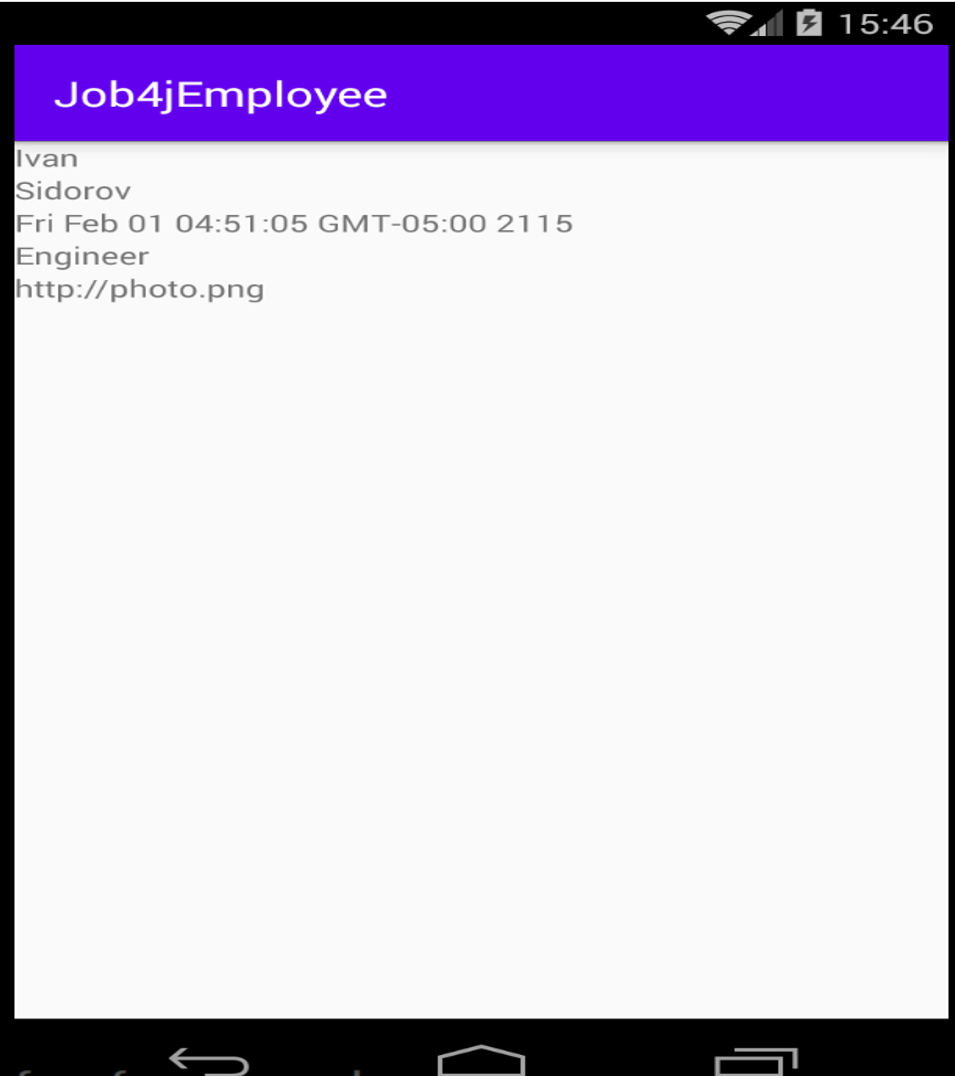
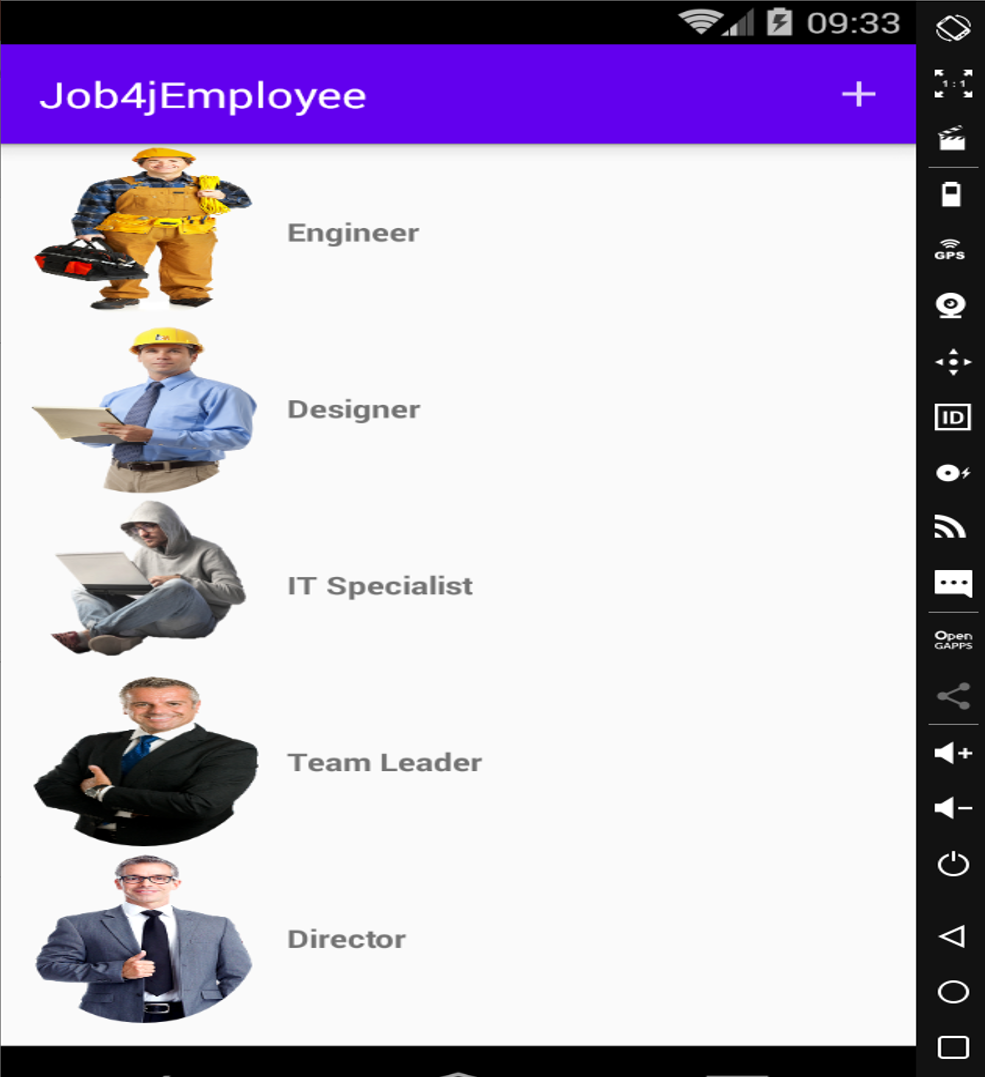
5. ToDo List[167930#231165]

diff --git a/app/src/main/java/ru/job4j/adapters/EmployeeListAdapter.java b/app/src/main/java/ru/job4j/adapters/EmployeeListAdapter.java
@@ -5,12 +5,15 @@ import android.util.Log;
 import android.view.LayoutInflater;
 import android.view.View;
 import android.view.ViewGroup;
+import android.widget.ImageView;
 import android.widget.TextView;
 
 import androidx.annotation.NonNull;
 import androidx.fragment.app.FragmentActivity;
 import androidx.fragment.app.FragmentManager;
 import androidx.recyclerview.widget.RecyclerView;
+
+import com.squareup.picasso.Picasso;
 
 import java.util.List;
 
@@ -21,10 +24,9 @@ import ru.job4j.store.Employee;
 import ru.job4j.store.Position;
 
 
-public class EmployeeListAdapter extends RecyclerView.Adapter<EmployeeListAdapter.EmployeeListHolder> implements View.OnClickListener {
+public class EmployeeListAdapter extends RecyclerView.Adapter<EmployeeListAdapter.EmployeeListHolder> {
     private final List<Employee> items;
     private FragmentActivity activity;
-    private int position = 0;
 
     public EmployeeListAdapter(List<Employee> items, FragmentActivity activity) {
         this.items = items;
@@ -60,9 +62,11 @@ public class EmployeeListAdapter extends RecyclerView.Adapter<EmployeeListAdapte
 
     @Override
     public void onBindViewHolder(@NonNull EmployeeListHolder holder, int position) {
+        ImageView imageView = holder.view.findViewById(R.id.image_of_employee);
+        Picasso.get().load(items.get(position).getPhotoURL()).fit().into(imageView);
         TextView textView = holder.view.findViewById(R.id.item_position_text);
         textView.setText(items.get(position).getName() + ", " + items.get(position).getSurname());
-        textView.setOnClickListener(this);
+        textView.setOnClickListener(view -> loadFrg(items.get(position).getName(), items.get(position).getSurname()));
     }
 
     private void loadFrg(String name, String sureName) throws RuntimeException {
@@ -72,12 +76,6 @@ public class EmployeeListAdapter extends RecyclerView.Adapter<EmployeeListAdapte
                 .addToBackStack("stack?")
                 .replace(R.id.content, fragment)
                 .commit();
-    }
-
-    @Override
-    public void onClick(View v) {
-        loadFrg(items.get(position).getName(), items.get(position).getSurname());
-        Log.d("clicked", "staaaak: ");
     }
 
     @Override

diff --git a/app/src/main/java/ru/job4j/adapters/PositionListAdapter.java b/app/src/main/java/ru/job4j/adapters/PositionListAdapter.java
@@ -5,10 +5,13 @@ import android.util.Log;
 import android.view.LayoutInflater;
 import android.view.View;
 import android.view.ViewGroup;
+import android.widget.ImageView;
 import android.widget.TextView;
 
 import androidx.annotation.NonNull;
 import androidx.recyclerview.widget.RecyclerView;
+
+import com.squareup.picasso.Picasso;
 
 import java.util.List;
 
@@ -18,17 +21,15 @@ import ru.job4j.R;
 import ru.job4j.fragments.PositionListFragment;
 import ru.job4j.store.Position;
 
-public class PositionListAdapter extends RecyclerView.Adapter<PositionListAdapter.PositionHolder> implements View.OnClickListener {
+public class PositionListAdapter extends RecyclerView.Adapter<PositionListAdapter.PositionHolder> {
 
     private final List<Position> items;
     private PositionListFragment.PositionSelect positionSelect;
-    private int position = 0;
 
     public PositionListAdapter(List<Position> items, PositionListFragment.PositionSelect positionSelect) {
         this.items = items;
         this.positionSelect = positionSelect;
     }
-
 
     public class PositionHolder extends RecyclerView.ViewHolder {
         private View view;
@@ -38,7 +39,6 @@ public class PositionListAdapter extends RecyclerView.Adapter<PositionListAdapte
             this.view = itemView;
         }
     }
-
 
     @NonNull
     @Override
@@ -51,15 +51,11 @@ public class PositionListAdapter extends RecyclerView.Adapter<PositionListAdapte
     @Override
     public void onBindViewHolder(@NonNull PositionHolder holder, int position) {
         final String item = items.get(position).getPositionName();
+        ImageView imageView = holder.view.findViewById(R.id.image_of_employee);
+        Picasso.get().load(items.get(position).getPositionImage()).fit().into(imageView);
         TextView textView = holder.view.findViewById(R.id.item_position_text);
         textView.setText(item);
-        textView.setOnClickListener(this);
-    }
-
-    @Override
-    public void onClick(View v) {
-        loadFrg(items.get(position).getCode());
-        Log.d("clicked", "staak ");
+        textView.setOnClickListener(v -> loadFrg(items.get(position).getCode()));
     }
 
     @Override

diff --git a/app/src/main/java/ru/job4j/store/EmployeeStore.java b/app/src/main/java/ru/job4j/store/EmployeeStore.java
@@ -8,11 +8,11 @@ import static ru.job4j.store.PositionStore.POSITIONS;
 
 public class EmployeeStore {
     public static final List<Employee> EMPLOYEES = Arrays.asList(
-            new Employee("Ivan", "Sidorov", POSITIONS.get(0), new Date(4578457865213L), "http://photo.png"),
-            new Employee("Petr", "Savosto", POSITIONS.get(1), new Date(4578457865213L), "http://photo2.png"),
-            new Employee("Pavel", "Petrov", POSITIONS.get(1), new Date(4578452365213L), "http://photo3.png"),
-            new Employee("Alexander", "Biba", POSITIONS.get(2), new Date(4578412865213L), "http://photo4.png"),
-            new Employee("Denis", "Mohov", POSITIONS.get(3), new Date(4578412865213L), "http://photo5.png"),
-            new Employee("Vladimir", "Putin", POSITIONS.get(4), new Date(4578412865213L), "http://photo6.png"),
-            new Employee("Dmitriy", "Dindirkin", POSITIONS.get(2), new Date(4578412865213L), "http://photo7.png"));
+            new Employee("Ivan", "Sidorov", POSITIONS.get(0), new Date(4578457865213L), "http://pngimg.com/uploads/thinking_man/thinking_man_PNG11610.png"),
+            new Employee("Petr", "Savosto", POSITIONS.get(1), new Date(4578457865213L), "http://pngimg.com/uploads/thinking_man/thinking_man_PNG11612.png"),
+            new Employee("Pavel", "Petrov", POSITIONS.get(1), new Date(4578452365213L), "http://pngimg.com/uploads/thinking_man/thinking_man_PNG11607.png"),
+            new Employee("Alexander", "Biba", POSITIONS.get(2), new Date(4578412865213L), "http://pngimg.com/uploads/thinking_man/thinking_man_PNG11586.png"),
+            new Employee("Denis", "Mohov", POSITIONS.get(3), new Date(4578412865213L), "http://pngimg.com/uploads/man/man_PNG6533.png"),
+            new Employee("Vladimir", "Putin", POSITIONS.get(4), new Date(4578412865213L), "http://pngimg.com/uploads/man/man_PNG6534.png"),
+            new Employee("Dmitriy", "Dindirkin", POSITIONS.get(2), new Date(4578412865213L), "http://pngimg.com/uploads/man/man_PNG6526.png"));
 }

diff --git a/app/src/main/java/ru/job4j/fragments/PositionListFragment.java b/app/src/main/java/ru/job4j/fragments/PositionListFragment.java
@@ -3,6 +3,8 @@ package ru.job4j.fragments;
 import android.content.Context;
 import android.os.Bundle;
 import android.view.LayoutInflater;
+import android.view.Menu;
+import android.view.MenuInflater;
 import android.view.View;
 import android.view.ViewGroup;
 
@@ -23,6 +25,12 @@ public class PositionListFragment extends Fragment {
     public static final String POS = "position";
     private PositionSelect positionSelect;
 
+    @Override
+    public void onCreate(@Nullable Bundle savedInstanceState) {
+        super.onCreate(savedInstanceState);
+        setHasOptionsMenu(true);
+    }
+
     @Nullable
     @Override
     public View onCreateView(@NonNull LayoutInflater inflater, @Nullable ViewGroup container, @Nullable Bundle savedInstanceState) {
@@ -31,6 +39,12 @@ public class PositionListFragment extends Fragment {
         recycler.setLayoutManager(new LinearLayoutManager(getContext()));
         updateUI(view);
         return view;
+    }
+
+    @Override
+    public void onCreateOptionsMenu(@NonNull Menu menu, @NonNull MenuInflater inflater) {
+        super.onCreateOptionsMenu(menu, inflater);
+        inflater.inflate(R.menu.position_list, menu);
     }
 
     public static PositionListFragment of(int index) {

diff --git a/app/src/main/java/ru/job4j/store/PositionStore.java b/app/src/main/java/ru/job4j/store/PositionStore.java
@@ -5,9 +5,9 @@ import java.util.List;
 
 public class PositionStore {
     public static final List<Position> POSITIONS = Arrays.asList(
-            new Position("Engineer", 657465),
-            new Position("Designer", 12567),
-            new Position("IT Specialist", 67843),
-            new Position("Team Leader", 6745655),
-            new Position("Director", 454155));
+            new Position("Engineer", 657465, "http://pngimg.com/uploads/industrial_worker/industrial_worker_PNG11463.png"),
+            new Position("Designer", 12567, "http://pngimg.com/uploads/industrial_worker/industrial_worker_PNG11442.png"),
+            new Position("IT Specialist", 67843, "http://pngimg.com/uploads/hacker/hacker_PNG5.png"),
+            new Position("Team Leader", 6745655, "http://pngimg.com/uploads/businessman/businessman_PNG6582.png"),
+            new Position("Director", 454155, "http://pngimg.com/uploads/businessman/businessman_PNG6564.png"));
 }

diff --git a/app/src/main/java/ru/job4j/store/Position.java b/app/src/main/java/ru/job4j/store/Position.java
@@ -2,11 +2,21 @@ package ru.job4j.store;
 
 public class Position {
     private String positionName;
+    private String positionImage;
     private int code;
 
-    public Position(String positionName, int code) {
+    public Position(String positionName, int code, String positionImage) {
         this.positionName = positionName;
+        this.positionImage = positionImage;
         this.code = code;
+    }
+
+    public String getPositionImage() {
+        return positionImage;
+    }
+
+    public void setPositionImage(String positionImage) {
+        this.positionImage = positionImage;
     }
 
     public String getPositionName() {

diff --git a/README.md b/README.md
@@ -1,11 +1,11 @@
 # job4jEmployee
 
 
- - Data of Employee
+ - List of positions
 
 
 
-![alt text](https://github.com/PaulVoit/job4jEmployee/blob/master/images/%D0%A0%D0%B8%D1%81%D1%83%D0%BD%D0%BE%D0%BA1.png "Data of Employee")
+![alt text](https://github.com/PaulVoit/job4jEmployee/blob/master/images/%D0%A0%D0%B8%D1%81%D1%83%D0%BD%D0%BE%D0%BA1.png "List of Positions")
 
 
 
@@ -17,8 +17,24 @@
 
 
 
-- List of positions
+- Name and Surname of Employee
 
 
 
 ![alt text](https://github.com/PaulVoit/job4jEmployee/blob/master/images/%D0%A0%D0%B8%D1%81%D1%83%D0%BD%D0%BE%D0%BA3.png "Name and Surname of Employee")
+
+
+
+- Name and Surname of Employee
+
+
+
+![alt text](https://github.com/PaulVoit/job4jEmployee/blob/master/images/%D0%A0%D0%B8%D1%81%D1%83%D0%BD%D0%BE%D0%BA4.png "Name and Surname of Employee")
+
+
+
+- Data of Employee
+
+
+
+![alt text](https://github.com/PaulVoit/job4jEmployee/blob/master/images/%D0%A0%D0%B8%D1%81%D1%83%D0%BD%D0%BE%D0%BA5.png "Data of Employee")
